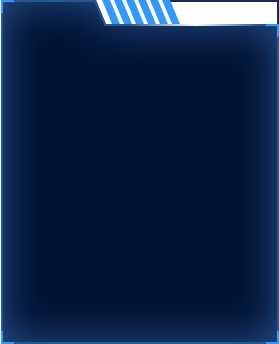
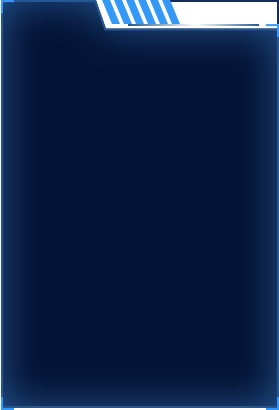
'界面调整'

Changed region(s): [[0.3728, 0.0, 1.0, 0.1163], [0.0, 0.9884, 1.0, 1.0]]

diff --git a/src/components/keyChannel/statistics.vue b/src/components/keyChannel/statistics.vue
@@ -1,22 +1,7 @@
 <template>
   <div>
     <div class="statistics_chat">
-      <!--<div class="preparation">筛选</div>-->
-      <!--<div class="timeChoose">-->
-        <!--<span>日期</span>-->
-        <!--<span class="calendarChoose" @click="calendarShow = true">-->
-          <!--<img src="../../assets/index/riqi.png" alt="">-->
-          <!--<input type="text" readonly placeholder="选择日期" v-model="startTime">-->
-        <!--</span>-->
-        <!--<span>至</span>-->
-        <!--<span class="calendarChoose" @click="calendarShow_ = true">-->
-          <!--<img src="../../assets/index/riqi.png" alt="">-->
-          <!--<input type="text" readonly placeholder="选择日期" v-model="endTime">-->
-        <!--</span>-->
-        <!--<span class="inquire" @click="inquire">查询</span>-->
-      <!--</div>-->
-
-       <el-card class="box-card">
+       <el-card class="box-card" v-if="roleShow">
          <!-- 饼图-->
          <div class="pie">
            <img src="../../assets/index/youshang.png" alt="">
@@ -30,25 +15,57 @@
          </div>
       </el-card>
 
-
-      <!-- 日期控件-->
-      <Calendar
-        v-on:choseDay="clickDay"
-        v-on:changeMonth="changeDate"
-        v-show="calendarShow"
-      ></Calendar>
-      <Calendar
-        v-on:choseDay="clickDay_"
-        v-on:changeMonth="changeDate_"
-        v-show="calendarShow_"
-      ></Calendar>
+      <el-card class="box-card box-card_" v-else>
+        <!-- 饼图-->
+        <div class="pie pie_" ref="tableHeight">
+          <img src="../../assets/index/youshang.png" alt="">
+          <p>程序监控</p>
+          <div class="contentTable">
+            <div class="tabTip">
+              <span><i class="blueColor"></i>正常</span>
+              <span><i class="redColor"></i>故障</span>
+            </div>
+            <div class="hotel_tab">
+              <div class="title">{{ hotelList.length != 0 ? hotelList[0].hotelName : '' }}</div>
+              <div class="hotel_status">
+                <i :class="hotelList.length != 0 ? hotelList[0].processStatus == 0 ? 'redColor' : 'blueColor' : ''"></i>
+                <span :class="hotelList.length != 0 ? hotelList[0].processStatus == 0 ? 'statusRed' : 'statusBlue' : ''">{{ hotelList.length != 0 ? hotelList[0].processStatus == 0 ? '当前程序不在线' : '欢迎使用，当前程序在线' : '' }}</span>
+              </div>
+            </div>
+            <div class="table_lists" ref="tableListsHeight">
+              <div class="lists" v-if="cameraList.length != 0">
+                <div class="list" v-for="item in cameraList">
+                  <div class="list_l">
+                    <img :src="hotelList[0].processStatus == 0 ? require('../../assets/index/Group.png') : item.cameraStatus == 1 ? require('../../assets/index/Group1.png') : require('../../assets/index/Group.png')" alt="">
+                    <span class="location">{{ item.cameraType == 'IN' ? '入口' : '出口' }}</span>
+                  </div>
+                  <div class="list_r">
+                    <div>序列号：{{ item.id }}</div>
+                    <div>IP：{{ item.ipAddress }}</div>
+                    <div>最近上报：{{ datetimeparse(item.lastLoginTime, 'MM/dd hh/mm') }}</div>
+                  </div>
+                </div>
+              </div>
+              <div class="noMsg" v-else>
+                <div class="img"><img src="../../assets/index/zanwuneirong.png" alt=""></div>
+                <p>暂无内容</p>
+              </div>
+            </div>
+          </div>
+        </div>
+        <!-- 饼图-->
+        <div class="pie">
+          <img src="../../assets/index/youxia.png" alt="">
+          <div id="myChart2" style="width: calc(100% - 32px);height: 300px"/>
+        </div>
+      </el-card>
     </div>
   </div>
 </template>
 
 <script>
   import {mapState,mapActions} from 'vuex';
-  import Calendar from 'vue-calendar-component';
+//  import Calendar from 'vue-calendar-component';
 
   // 引入基本模板
   import echarts from 'echarts'
@@ -65,16 +82,18 @@
   export default {
     name: 'statistics',
     components: {
-      Calendar
     },
     data () {
       return {
+        roleShow: sessionStorage.roleId != '' ? true : false,  // 判断权限
         calendarShow: false,
         calendarShow_: false,
         startTime: '',
         endTime: '',
         echarts2Options: [],   // 饼图数据
         echarts1Options: {},   // 折线图数据
+        cameraList: [],
+        hotelList: [],
       }
     },
     props: {
@@ -96,12 +115,54 @@
 //        this.getList (this.startTime, this.endTime);
       },0);
 
+      this.$refs.tableHeight.style.height = 'calc(100vh - 398px)';
+      this.$refs.tableListsHeight.style.maxHeight = 'calc(100% - 110px)';
+      console.log(this.$refs, 556, );
+
+      this.getHotelList();
+      this.timer = setInterval(() => {
+        this.getHotelList();
+      },60000);
     },
     methods: {
 
       ...mapActions([
-        'replaceto','illegalGuest'
+        'replaceto', 'illegalGuest', 'getHotel', 'hotelCamera'
       ]),
+
+      // 酒店list
+      getHotelList() {
+        let arr = [];
+        this.getHotel({
+          onsuccess: body => {
+            if (body.data.code == 0 && body.data.data) {
+                body.data.data.forEach(item => {
+                    if (item.hotelId == sessionStorage.hotelId) {
+                        arr.push(item)
+                    }
+                });
+              this.hotelList = arr;
+              this.cameraFun( arr.length != 0 ? this.hotelList[0].hotelId : '');
+            }
+          }
+        })
+      },
+
+      // 摄像头状态
+      cameraFun(hotelId) {
+          if (hotelId) {
+            this.hotelCamera({
+              hotelId: hotelId,
+              onsuccess: body => {
+                  console.log(333, body.data);
+                if (body.data.code == 0 && body.data.data) {
+                  this.cameraList = body.data.data;
+                  console.log(this.cameraList);
+                }
+              }
+            })
+          }
+      },
 
       // 获取前后几天的时间
       fun_date(aa){
@@ -462,6 +523,138 @@
     }
     #myChart1 {
       top: -34px;
+    }
+  }
+  .box-card_ {
+    .pie {
+      margin-top: 20px;
+    }
+    .pie_ {
+      img {
+        height: 100%;
+      }
+      margin-top: 0;
+      .contentTable {
+        height: calc(100% - 55px);
+        width: calc(100% - 32px);
+        position: absolute;
+        top: 35px;
+        left: 8px;
+        padding: 8px;
+        .tabTip {
+          text-align: left;
+          span {
+            color: #3798FC;
+            font-size: 14px;
+            margin-right: 30px;
+            display: inline-flex;
+            align-items: center;
+          }
+        }
+        i {
+          width: 14px;
+          height: 14px;
+          border-radius: 4px;
+          margin-right: 6px;
+          display: inline-block;
+        }
+        .blueColor {
+          background-color: blue;
+        }
+        .redColor {
+          background-color: red;
+        }
+        .hotel_tab {
+          margin-top: 8px;
+          width: calc(100% - 32px);
+          border: 1px solid #3798FC;
+          border-radius: 4px;
+          padding: 8px 15px;
+          background-color: #041740;
+          .title {
+            color: #fff;
+            font-size: 14px;
+            text-align: left;
+          }
+          .hotel_status {
+            margin-top: 8px;
+            display: flex;
+            align-items: center;
+            span {
+              color: #3798FC;
+              font-size: 14px;
+            }
+            .statusRed {
+              color: #F46C6C;
+            }
+          }
+        }
+        .table_lists {
+          /*height: 360px;*/
+          margin-top: 15px;
+          overflow-y: scroll;
+          position: relative;
+          .lists {
+            .list {
+              background-color: #041740;
+              border: 1px solid #3798FC;
+              border-radius: 4px;
+              margin-bottom: 15px;
+              /*width: calc(100% - 0px);*/
+              padding: 12px 0;
+              display: flex;
+              align-items: center;
+              justify-content: space-between;
+              .list_l {
+                width: 35%;
+                img {
+                  width: 36px;
+                  height: 36px;
+                  margin: 0 auto;
+                }
+                span {
+                  margin-top: 8px;
+                  font-size: 14px;
+                  color: #fff;
+                }
+              }
+              .list_r {
+                width: 62%;
+                text-align: left;
+                div {
+                  font-size: 14px;
+                  color: #fff;
+                  margin-bottom: 8px;
+                }
+                div:last-of-type {
+                  margin-bottom: 0;
+                }
+              }
+            }
+          }
+          .noMsg {
+            position: absolute;
+            left: 50%;
+            top: 50%;
+            transform: translate(-50%, -50%);
+            img {
+              width: 80px;
+            }
+            p {
+              font-size: 14px;
+              color: #fff;
+              margin-top: 10px;
+              position: static;
+            }
+          }
+        }
+        .table_lists::-webkit-scrollbar {
+          display: none;
+        }
+      }
+    }
+    #myChart2 {
+      top: -35px;
     }
   }
 

diff --git a/src/components/keyChannel/index.vue b/src/components/keyChannel/index.vue
@@ -12,13 +12,13 @@
               <div class="tabs" v-else>
                 <span :class="handleIndex == 1 ? 'active' : ''" @click="handleClick(1)"><img :src="handleIndex == 1 ? handerImg.img[1] : handerImg.img[0]" alt="">首页</span>
                 <span :class="handleIndex == 2 ? 'active' : ''" @click="handleClick(2)"><img :src="handleIndex == 2 ? handerImg.img[1] : handerImg.img[0]" alt="">设置</span>
-                <span :class="handleIndex == 3 ? 'active' : ''" @click="handleClick(3)" v-if="massage"><img :src="handleIndex == 3 ? handerImg.img[1] : handerImg.img[0]" alt="" >设备监控</span>
+                <!--<span :class="handleIndex == 3 ? 'active' : ''" @click="handleClick(3)" v-if="massage"><img :src="handleIndex == 3 ? handerImg.img[1] : handerImg.img[0]" alt="" >设备监控</span>-->
               </div>
             </el-col>
             <el-col :span="12">
               <el-row class="ownInfo">
                 <el-col :span="13">
-                  <div class="passContact" v-if="!roleShow">
+                  <div class="passContact">    <!--v-if="!roleShow"-->
                     <el-button @click="changePhone">
                       <span>添加设备异常通知手机号 <span>{{ phone }}</span></span>
                       <span v-if="phone !== ''">修改</span>
@@ -90,6 +90,7 @@
           time: 180,
           disabled: false
         },
+        timerNull: null,
         rules: {
           phone: [
             { required: true, message: '请填写手机号码', trigger: 'blur' },
@@ -116,7 +117,8 @@
       // 退出事件
       logout () {
         sessionStorage.removeItem('tab');
-        this.replaceto('/');
+//        this.replaceto('/');
+        window.location.href = localStorage.getItem('windowUrl_');
       },
 
       // tab点击事件
@@ -156,6 +158,11 @@
 //            this.changeItem.phone = this.phone;
 //        }
         this.changeItem.phone = '';
+        this.changeItem.code = '';
+        this.changeItem.disabled = false;
+        this.changeItem.time = 180;
+        this.changeItem.text = '获取验证码';
+        clearTimeout(this.timerNull);
         this.statusTip = true;
       },
 
@@ -224,7 +231,7 @@
         if (this.changeItem.time > 0) {
           this.changeItem.time--;
           this.changeItem.text = this.changeItem.time+"s后重新获取";
-          setTimeout(this.timer, 1000);
+          this.timerNull = setTimeout(this.timer, 1000);
         } else{
           this.changeItem.time = 0;
           this.changeItem.text = "重新获取";

diff --git a/src/components/keyChannel/homeIndex.vue b/src/components/keyChannel/homeIndex.vue
@@ -767,10 +767,10 @@
             }
             this.$nextTick(() => {
               this.loading.close();
-              this.$refs.elAside.$children[0].$el.style.height = this.$refs.mainHeight.$el.offsetHeight + 'px';
-              this.$refs.elAside.$children[0].$el.firstChild.firstChild.style.height = (this.$refs.mainHeight.$el.offsetHeight - 1) + 'px';
-              this.$refs.elAside.$children[0].$el.lastElementChild.style.maxHeight = (this.$refs.mainHeight.$el.offsetHeight - 48)+ 'px';
-              this.$refs.mainListHeight.$el.childNodes[2].style.minHeight = 'calc(100vh - '+(100 + this.$refs.headerHeight.$el.offsetHeight)+'px)';
+              this.$refs.elAside.$children[0].$el.style.height = (this.$refs.mainHeight.$el.offsetHeight - 15) + 'px';
+              this.$refs.elAside.$children[0].$el.firstChild.firstChild.style.height = (this.$refs.mainHeight.$el.offsetHeight - 0) + 'px';
+              this.$refs.elAside.$children[0].$el.lastElementChild.style.maxHeight = (this.$refs.mainHeight.$el.offsetHeight - 0)+ 'px';
+              this.$refs.mainListHeight.$el.childNodes[2].style.minHeight = 'calc(100vh - '+(130 + this.$refs.headerHeight.$el.offsetHeight)+'px)';
             })
           }
         })

diff --git a/index.html b/index.html
@@ -9,6 +9,16 @@
         background: #041740;
       }
     </style>
+    <script>
+      let windowUrl_ = null;
+      console.log(window.location.href);
+      if (window.location.href.indexOf('.cn') != -1) {
+        windowUrl_ = window.location.href.split('#')[0].split('.cn')[0]+'.cn/';
+      } else {
+        windowUrl_ = '';
+      }
+      localStorage.setItem('windowUrl_', windowUrl_);
+    </script>
   </head>
   <body>
     <div id="app"></div>
